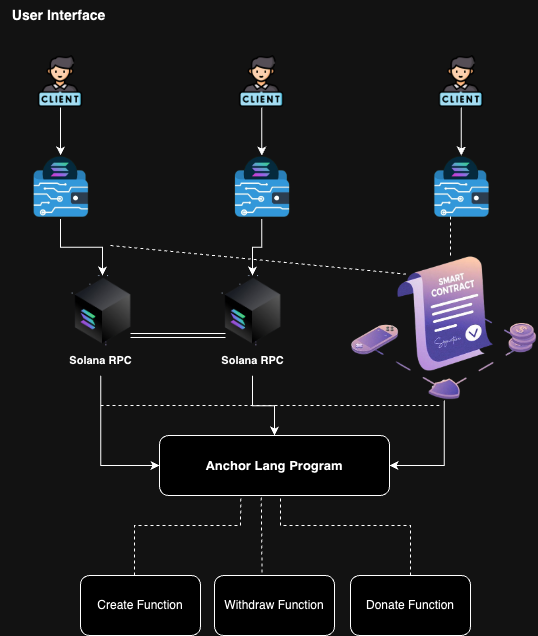
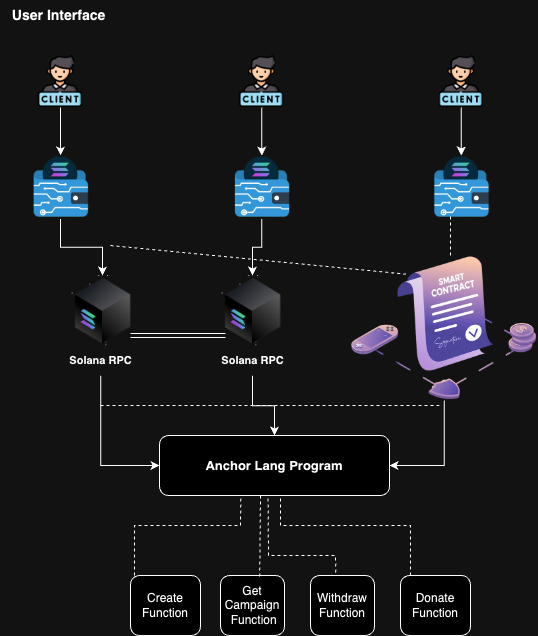
feat : add get campaign feature 🦾

diff --git a/README.md b/README.md
@@ -95,4 +95,15 @@ category : "which type of campaign"
 - Transactional data and campaign details recorded on the Solana blockchain are immutable and tamper-proof, providing a permanent and verifiable record of fundraising activities.
   Immutable records enhance auditability, mitigating the risk of fraud or data manipulation and fostering trust among stakeholders.
 
-##
+## 🗂 Folder Structure.
+
+```sh
+CrowdFund/
+├── programs/smart-contracts/
+├                   ├── src/
+├                        ├── lib.rs  (contains smart contracts code)
+├── tests/
+     ├── smart-contracts.ts (contains test cases for smart contracts)
+
+
+```
